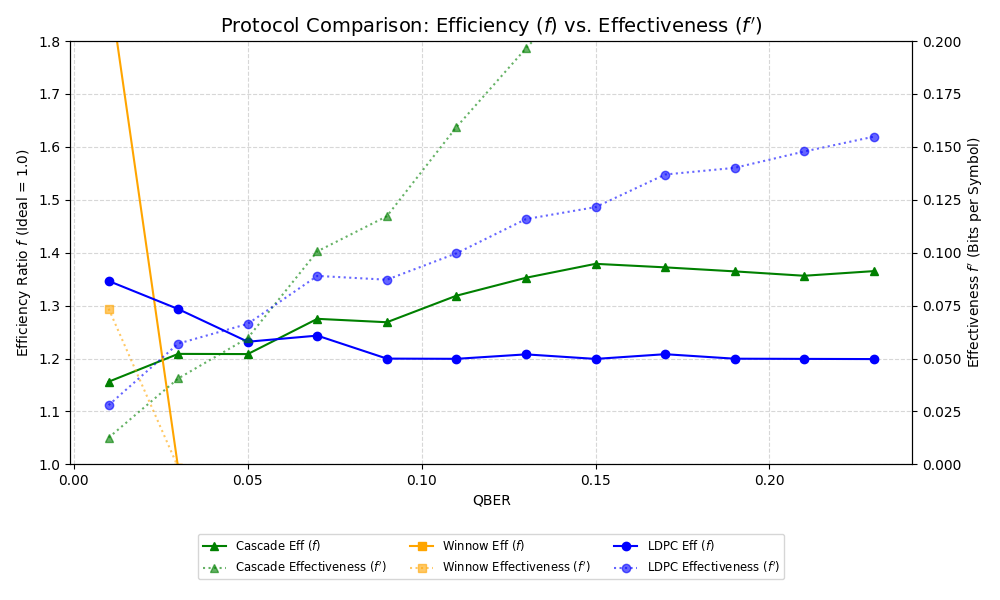
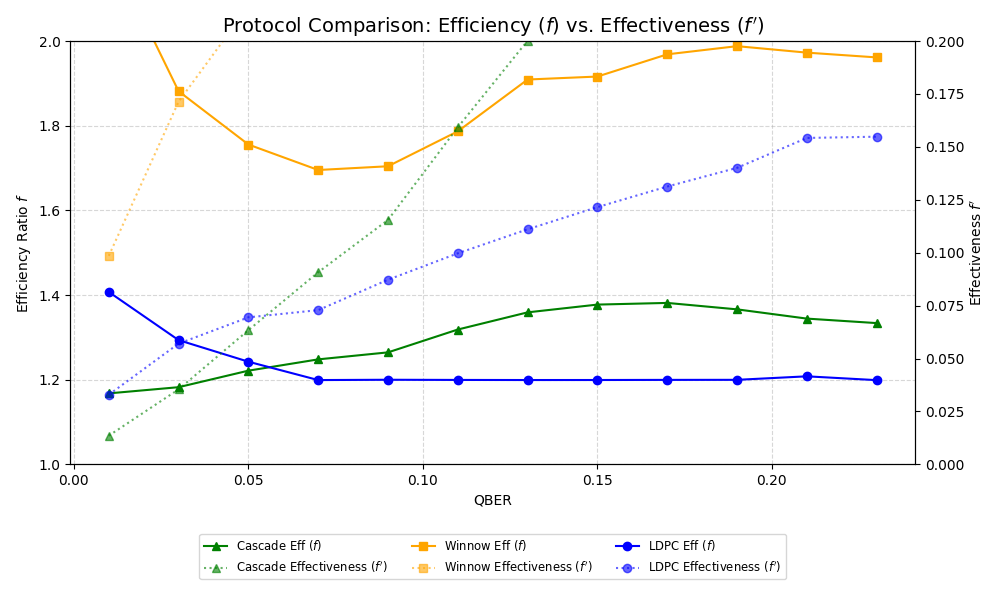
Fixed code and plots

diff --git a/lab2/test_classic_vs_ldpc.py b/lab2/test_classic_vs_ldpc.py
@@ -13,7 +13,7 @@ def calc_efficiency(n_revealed, n_total, qber):
     return n_revealed / (n_total * h)
 
 def calc_f_prime(f, qber):
-    """Calculates f' (waste)."""
+    """Calculates f'."""
     if qber <= 0 or qber >= 0.5 or np.isnan(f): return np.nan
     return (f - 1) * ec.h_b(qber)
 
@@ -33,6 +33,8 @@ def test_protocols():
     }
 
 
+    winnow_falues = 0
+
     for qber in qber_range:
 
         print("QBER: " + str(qber))
@@ -41,31 +43,28 @@ def test_protocols():
         # Progress indicator
         print(f"Proc QBER {qber:.2f} ", end='', flush=True)
 
-        for _ in range(n_tries):
+        
+        winnow_faled = 0
+
+        for i in range(n_tries):
             alice = cp.generate_key(N)
             bob_raw = cp.add_errors(alice, qber) 
-            
+
+
             # --- 1. CASCADE ---
             bob_c, rev_c, _ = cp.run_cascade(alice, bob_raw, qber)
             #if np.array_equal(alice, bob_c):
             f_sums['cascade'].append(calc_efficiency(rev_c, N, qber))
-            if not np.array_equal(alice, bob_c):
-                results['cascade']['falures'] += 1
 
             # --- 2. WINNOW ---
-            bob_w, rev_w, _ = cp.run_winnow(alice, bob_raw, qber)
+            bob_w, rev_w = cp.run_winnow_iterative(alice, bob_raw, qber)
             #if np.array_equal(alice, bob_w):
             f_sums['winnow'].append(calc_efficiency(rev_w, N, qber))
-            if not np.array_equal(alice, bob_w):
-                results['winnow']['falures'] += 1
 
 
             # --- 3. LDPC ---
             R, s_n, p_n = ec.choose_sp(qber, 1.2, R_range, N)
             
-            if R is None:
-                # No suitable code found
-                results['ldpc']['falures'] += 1
 
             if R is not None:
                 k_ldpc = N - s_n - p_n
@@ -88,6 +87,9 @@ def test_protocols():
                     f_sums['ldpc'].append(curr_f)
             
             print(".", end="", flush=True)
+
+        if winnow_faled > 0:
+            winnow_falues += 1
 
         print(" Done!") 
         
@@ -134,20 +136,16 @@ def test_protocols():
                              linestyle=':', marker=marker, color=color, alpha=0.6, label=f'{name} Effectiveness ($f\'$)')
             lines.append(l_fp)
 
-    print("falures:")
-    for key in ['cascade', 'winnow', 'ldpc']:
-        print(f"  {key}: {results[key]['falures']}")
-
     # Axis 1 Settings
     ax1.set_title('Protocol Comparison: Efficiency ($f$) vs. Effectiveness ($f\'$)', fontsize=14)
     ax1.set_xlabel('QBER')
-    ax1.set_ylabel('Efficiency Ratio $f$ (Ideal = 1.0)')
-    ax1.set_ylim(1.0, 1.8) # Adjusted for typical f values
+    ax1.set_ylabel('Efficiency Ratio $f$')
+    ax1.set_ylim(1.0, 2.0) # f
     ax1.grid(True, linestyle='--', alpha=0.5)
 
     # Axis 2 Settings
-    ax2.set_ylabel('Effectiveness $f\'$ (Bits per Symbol)')
-    ax2.set_ylim(0, 0.2) # f' is usually small (0.0 to 0.15)
+    ax2.set_ylabel('Effectiveness $f\'$')
+    ax2.set_ylim(0, 0.2) # f' 
 
     # Legend
     labels = [l.get_label() for l in lines]

diff --git a/lab2/classic_protocols.py b/lab2/classic_protocols.py
@@ -118,6 +118,41 @@ def run_winnow(alice, bob, qber):
 
     return bob_corr, bits_revealed, iterations
 
+def run_winnow_iterative(alice, bob, qber):
+    # Maximum iterations to prevent infinite loops
+    MAX_ITER = 5 
+    
+    # Working copies
+    alice_curr = alice.copy()
+    bob_curr = bob.copy()
+    
+    total_revealed = 0
+    
+    # Generate a permutation index list
+    n = len(alice)
+    perm = np.arange(n)
+    
+    for i in range(MAX_ITER):
+        # 1. Run Single Pass Winnow
+        bob_curr, revealed, _ = run_winnow(alice_curr, bob_curr, qber)
+        total_revealed += revealed
+        
+        # 2. Check if we are done (optional optimization: Check Parity of whole key)
+        if np.array_equal(alice_curr, bob_curr):
+            print(f"Converged in {i+1} iterations")
+            return bob_curr, total_revealed
+            
+        # 3. SHUFFLE (Permute)
+        # Alice and Bob must permute exactly the same way
+        np.random.shuffle(perm)
+        alice_curr = alice_curr[perm]
+        bob_curr = bob_curr[perm]
+        
+    # Un-shuffle at the end if you need the original order (usually QKD just uses the final random string)
+    # If un-shuffle is needed, you need to track the inverse permutation.
+    
+    return bob_curr, total_revealed
+
 # ==============================================================================
 # 3. CASCADE PROTOCOL
 # ==============================================================================
